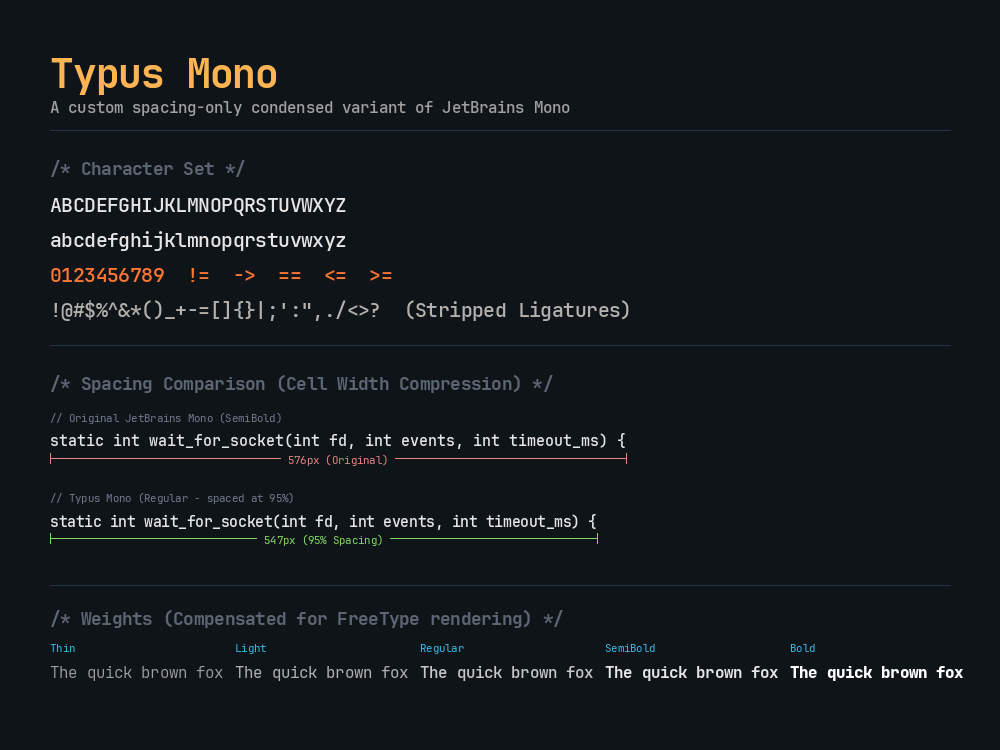
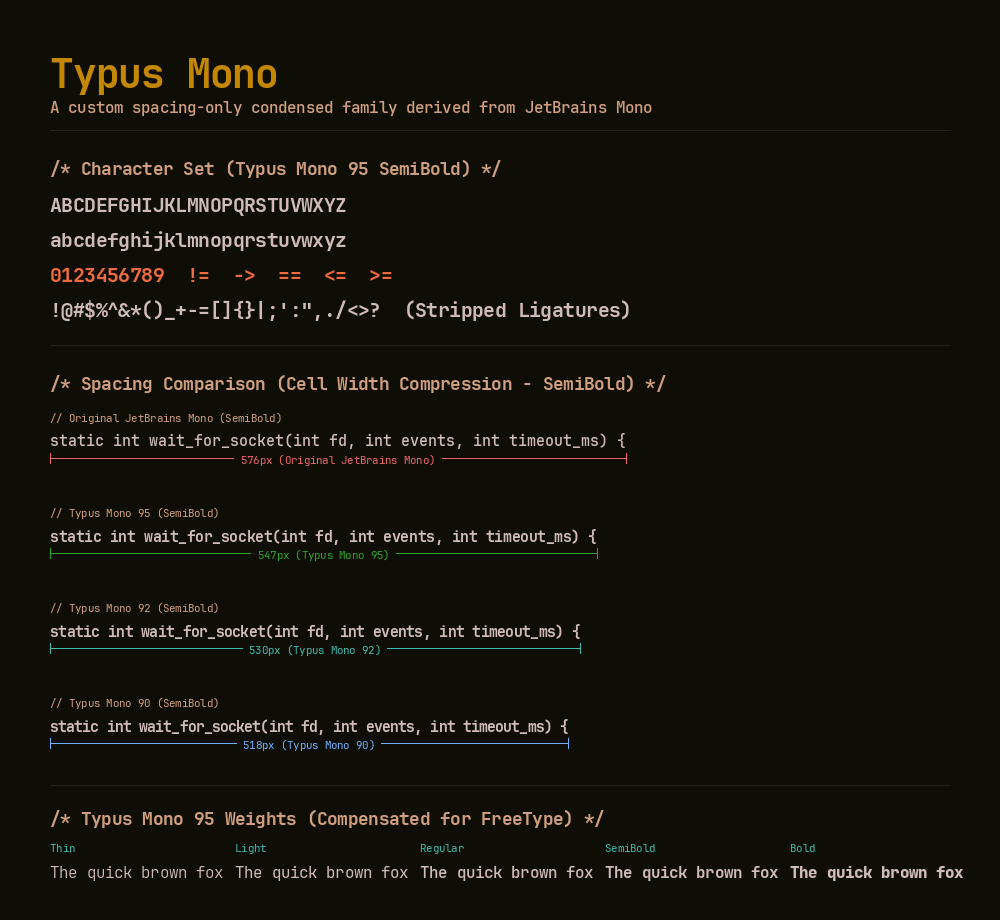
docs: include comparison for all scales and update specimen preview

diff --git a/generate_specimen.py b/generate_specimen.py
@@ -20,8 +20,8 @@ def draw_ruler(
             (x + width / 2 - text_w / 2 - 6, y - 8),
             (x + width / 2 + text_w / 2 + 6, y + 8),
         ],
-        fill="#0f1419",
-    )
+        fill="#0f0e06",
+    )  # ef-autumn background
     draw.text((x + width / 2 - text_w / 2, y - 6), label, fill=color_text, font=font)
 
 
@@ -30,122 +30,178 @@ def main():
     orig_path = "~/.local/share/fonts/JetBrainsMono/JetBrainsMonoNerdFont-SemiBold.ttf"
     output_path = os.path.join(repo_dir, "preview.png")
 
-    font_reg_path = os.path.join(repo_dir, "fonts/TypusMono-Regular.ttf")
-    font_sb_path = os.path.join(repo_dir, "fonts/TypusMono-SemiBold.ttf")
-    font_bold_path = os.path.join(repo_dir, "fonts/TypusMono-Bold.ttf")
-    font_light_path = os.path.join(repo_dir, "fonts/TypusMono-Light.ttf")
-    font_thin_path = os.path.join(repo_dir, "fonts/TypusMono-Thin.ttf")
+    font_thin_path = os.path.join(repo_dir, "fonts/TypusMono95-Thin.ttf")
+    font_light_path = os.path.join(repo_dir, "fonts/TypusMono95-Light.ttf")
+    font_reg_path = os.path.join(repo_dir, "fonts/TypusMono95-Regular.ttf")
+    font_sb_path = os.path.join(repo_dir, "fonts/TypusMono95-SemiBold.ttf")
+    font_bold_path = os.path.join(repo_dir, "fonts/TypusMono95-Bold.ttf")
+
+    font_sb_95_path = os.path.join(repo_dir, "fonts/TypusMono95-SemiBold.ttf")
+    font_sb_92_path = os.path.join(repo_dir, "fonts/TypusMono92-SemiBold.ttf")
+    font_sb_90_path = os.path.join(repo_dir, "fonts/TypusMono90-SemiBold.ttf")
 
     title_font = ImageFont.truetype(font_sb_path, 40)
     tagline_font = ImageFont.truetype(font_reg_path, 16)
     section_title_font = ImageFont.truetype(font_sb_path, 18)
-    char_font = ImageFont.truetype(font_reg_path, 20)
+    char_font = ImageFont.truetype(
+        font_sb_path, 20
+    )  # SemiBold for character set preview
+
     code_font_orig = ImageFont.truetype(orig_path, 15)
-    code_font_typus = ImageFont.truetype(font_reg_path, 15)
+    code_font_typus_95 = ImageFont.truetype(font_sb_95_path, 15)
+    code_font_typus_92 = ImageFont.truetype(font_sb_92_path, 15)
+    code_font_typus_90 = ImageFont.truetype(font_sb_90_path, 15)
+
     ruler_font = ImageFont.truetype(font_light_path, 11)
 
-    bg_color = "#0f1419"
-    img = Image.new("RGB", (1000, 750), color=bg_color)
+    bg_color = "#0f0e06"
+    fg_color = "#cfbcba"
+    keyword_color = "#c48702"
+    comment_color = "#cf9f7f"
+    string_color = "#f06a3f"
+    teal_color = "#3dbbb0"
+    blue_accent = "#6fafff"
+    red_accent = "#ef656a"
+    green_accent = "#2fa526"
+    border_color = "#26211d"
+
+    img = Image.new("RGB", (1000, 920), color=bg_color)
     draw = ImageDraw.Draw(img)
 
     # header
-    draw.text((50, 45), "Typus Mono", fill="#ffb454", font=title_font)
+    draw.text((50, 45), "Typus Mono", fill=keyword_color, font=title_font)
     draw.text(
         (50, 95),
-        "A custom spacing-only condensed variant of JetBrains Mono",
-        fill="#a0a0a0",
+        "A custom spacing-only condensed family derived from JetBrains Mono",
+        fill=comment_color,
         font=tagline_font,
     )
-    draw.line([(50, 130), (950, 130)], fill="#243347", width=1)
+    draw.line([(50, 130), (950, 130)], fill=border_color, width=1)
 
     # character set
-    draw.text((50, 155), "/* Character Set */", fill="#5c6773", font=section_title_font)
+    draw.text(
+        (50, 155),
+        "/* Character Set (Typus Mono 95 SemiBold) */",
+        fill=comment_color,
+        font=section_title_font,
+    )
     chars_line1 = "ABCDEFGHIJKLMNOPQRSTUVWXYZ"
     chars_line2 = "abcdefghijklmnopqrstuvwxyz"
     chars_line3 = "0123456789  !=  ->  ==  <=  >="
     chars_line4 = "!@#$%^&*()_+-=[]{}|;':\",./<>?  (Stripped Ligatures)"
 
-    draw.text((50, 190), chars_line1, fill="#e6e6e6", font=char_font)
-    draw.text((50, 225), chars_line2, fill="#e6e6e6", font=char_font)
-    draw.text((50, 260), chars_line3, fill="#ff7733", font=char_font)
-    draw.text((50, 295), chars_line4, fill="#b3b1ad", font=char_font)
+    draw.text((50, 190), chars_line1, fill=fg_color, font=char_font)
+    draw.text((50, 225), chars_line2, fill=fg_color, font=char_font)
+    draw.text((50, 260), chars_line3, fill=string_color, font=char_font)
+    draw.text((50, 295), chars_line4, fill=fg_color, font=char_font)
 
-    draw.line([(50, 345), (950, 345)], fill="#243347", width=1)
+    draw.line([(50, 345), (950, 345)], fill=border_color, width=1)
 
     # spacing comparision
     draw.text(
         (50, 370),
-        "/* Spacing Comparison (Cell Width Compression) */",
-        fill="#5c6773",
+        "/* Spacing Comparison (Cell Width Compression - SemiBold) */",
+        fill=comment_color,
         font=section_title_font,
     )
 
     code_line = "static int wait_for_socket(int fd, int events, int timeout_ms) {"
 
-    # Original JetBrains Mono
+    # JetBrains Mono
     draw.text(
         (50, 410),
         "// Original JetBrains Mono (SemiBold)",
-        fill="#707a8c",
+        fill=comment_color,
         font=ruler_font,
     )
-    draw.text((50, 430), code_line, fill="#e6e6e6", font=code_font_orig)
+    draw.text((50, 430), code_line, fill=fg_color, font=code_font_orig)
     orig_w = int(draw.textlength(code_line, font=code_font_orig))
     draw_ruler(
         draw,
         50,
         458,
         orig_w,
-        f"{orig_w}px (Original)",
-        color_line="#e28481",
-        color_text="#e28481",
+        f"{orig_w}px (Original JetBrains Mono)",
+        color_line=red_accent,
+        color_text=red_accent,
         font=ruler_font,
     )
 
-    # Typus Mono
+    # Typus Mono 95
     draw.text(
-        (50, 490),
-        "// Typus Mono (Regular - spaced at 95%)",
-        fill="#707a8c",
-        font=ruler_font,
+        (50, 505), "// Typus Mono 95 (SemiBold)", fill=comment_color, font=ruler_font
     )
-    draw.text((50, 510), code_line, fill="#e6e6e6", font=code_font_typus)
-    typus_w = int(draw.textlength(code_line, font=code_font_typus))
+    draw.text((50, 525), code_line, fill=fg_color, font=code_font_typus_95)
+    w_95 = int(draw.textlength(code_line, font=code_font_typus_95))
     draw_ruler(
         draw,
         50,
-        538,
-        typus_w,
-        f"{typus_w}px (95% Spacing)",
-        color_line="#7fd962",
-        color_text="#7fd962",
+        553,
+        w_95,
+        f"{w_95}px (Typus Mono 95)",
+        color_line=green_accent,
+        color_text=green_accent,
         font=ruler_font,
     )
 
-    draw.line([(50, 585), (950, 585)], fill="#243347", width=1)
+    # Typus Mono 92
+    draw.text(
+        (50, 600), "// Typus Mono 92 (SemiBold)", fill=comment_color, font=ruler_font
+    )
+    draw.text((50, 620), code_line, fill=fg_color, font=code_font_typus_92)
+    w_92 = int(draw.textlength(code_line, font=code_font_typus_92))
+    draw_ruler(
+        draw,
+        50,
+        648,
+        w_92,
+        f"{w_92}px (Typus Mono 92)",
+        color_line=teal_color,
+        color_text=teal_color,
+        font=ruler_font,
+    )
+
+    # Typus Mono 90
+    draw.text(
+        (50, 695), "// Typus Mono 90 (SemiBold)", fill=comment_color, font=ruler_font
+    )
+    draw.text((50, 715), code_line, fill=fg_color, font=code_font_typus_90)
+    w_90 = int(draw.textlength(code_line, font=code_font_typus_90))
+    draw_ruler(
+        draw,
+        50,
+        743,
+        w_90,
+        f"{w_90}px (Typus Mono 90)",
+        color_line=blue_accent,
+        color_text=blue_accent,
+        font=ruler_font,
+    )
+
+    draw.line([(50, 785), (950, 785)], fill=border_color, width=1)
 
     # weight showcase
     draw.text(
-        (50, 605),
-        "/* Weights (Compensated for FreeType rendering) */",
-        fill="#5c6773",
+        (50, 805),
+        "/* Typus Mono 95 Weights (Compensated for FreeType) */",
+        fill=comment_color,
         font=section_title_font,
     )
 
     weights_info = [
-        ("Thin", font_thin_path, "#a0a0a0"),
-        ("Light", font_light_path, "#b0b0b0"),
-        ("Regular", font_reg_path, "#c8c8c8"),
-        ("SemiBold", font_sb_path, "#e6e6e6"),
-        ("Bold", font_bold_path, "#ffffff"),
+        ("Thin", font_thin_path, fg_color),
+        ("Light", font_light_path, fg_color),
+        ("Regular", font_reg_path, fg_color),
+        ("SemiBold", font_sb_path, fg_color),
+        ("Bold", font_bold_path, fg_color),
     ]
 
     x_offset = 50
     for w_name, w_path, w_color in weights_info:
         w_font = ImageFont.truetype(w_path, 16)
-        draw.text((x_offset, 640), w_name, fill="#39bae6", font=ruler_font)
+        draw.text((x_offset, 840), w_name, fill=teal_color, font=ruler_font)
         sample_text = "The quick brown fox"
-        draw.text((x_offset, 660), sample_text, fill=w_color, font=w_font)
+        draw.text((x_offset, 860), sample_text, fill=w_color, font=w_font)
         x_offset += 185
 
     img.save(output_path)

diff --git a/README.md b/README.md
@@ -6,26 +6,22 @@ It serves as my personal daily driver. I maintain this repository as a central, 
 
 ![Typus Mono Specimen and Spacing Comparison](preview.png)
 
----
+## Motivation
 
-## The Motivation
+My journey with terminal aesthetics reached its peak with a highly tuned configuration in the Ghostty terminal emulator. By using cell compression (`adjust-cell-width = -1` and `adjust-cell-height = 1` at a size of `12pt`), I achieved a compact, high-information-density monospace grid that felt incredibly crisp to my eyes.
 
-My journey with terminal aesthetics reached its peak with a highly tuned configuration in the Ghostty terminal emulator. By utilizing cell compression (`adjust-cell-width = -1` and `adjust-cell-height = 1` at a size of `12pt`), I achieved a compact, high-information-density monospace grid that felt incredibly crisp to my eyes.
-
-However, when transitioning to GUI-native applications - specifically **GNU Emacs** - I faced a major obstacle. While terminal emulators can dynamically pack cells tighter by shifting rendering coordinates, Emacs GUI relies on the font's native metrics. It has no built-in mechanism for sub-pixel character width compression.
+However, when using **GNU Emacs** I faced a `major` obstacle. While terminal emulators can dynamically pack cells tighter by shifting rendering coordinates, Emacs GUI relies on the font's native metrics. It has no built-in mechanism for sub-pixel character width compression *yet (maybe someday?)*.
 
 To dissolve this mismatch and bring the exact, beloved Ghostty text layout into Emacs GUI, the modifications had to be baked directly into the font files. Thus, **Typus Mono** was born.
 
----
-
-## The Engineering Details
+## Engineering Details
 
 To achieve a pixel-perfect layout duplicate without ruining legibility, the customization relies on two key modifications:
 
-### 1. Spacing-Only Metrics Compression (95% Width)
-A naive approach would simply scale the font coordinates horizontally. However, horizontal scaling distorts the glyph vectors, turning round shapes into ugly ovals and breaking subpixel hints. 
+### 1. Spacing-Only Metrics Compression (90%, 92%, and 95% Widths)
+A naive approach would simply scale the font coordinates horizontally. However, horizontal scaling distorts the glyph vectors, turning round shapes into ugly ovals and breaking subpixel hints.
 
-Typus Mono preserves the glyph outlines **100% untouched**. Instead, it scales only the horizontal advance metrics (`hmtx` table) down to **95%**. The characters keep their original, beautifully designed proportions but are packed closer together—exactly mirroring Ghostty's cell width adjustment.
+Typus Mono preserves the glyph outlines **100% untouched**. Instead, it scales only the horizontal advance metrics (`hmtx` table) down to **90%**, **92%**, or **95%**. The characters keep their original, beautifully designed proportions but are packed closer together - exactly mirroring Ghostty's cell width adjustment.
 
 ### 2. Shifted Weight Mapping (Compensating for FreeType)
 When comparing GUI Emacs with Ghostty, my eyes immediately noticed a weight discrepancy. GPU-accelerated terminal renderers (such as Ghostty's custom shaders) naturally draw text with slightly more visual weight ("density"). Emacs GUI, using standard FreeType rasterization on Linux, renders the exact same font files noticeably thinner.
@@ -37,29 +33,25 @@ To correct this and restore visual parity, the font files were shifted up by wei
 - **Typus Mono `Light`** is built from original **`Regular`**.
 - **Typus Mono `Thin`** is built from original **`Light`**.
 
-This weight compensation, combined with the metrics scaling, yields a **1:1 pixel-perfect match** between Ghostty and Emacs GUI (measuring exactly **574 pixels for 64 characters** at size 12).
+This weight compensation, combined with the metrics scaling, yields a **1:1 pixel-perfect match** between Ghostty and Emacs GUI (measuring exactly **574 pixels for 64 characters** at size 12 with the 95 spacing variant).
 
 ### 3. Strict Ligature Stripping
-Contextual alternates (`calt`), standard ligatures (`liga`), discretionary ligatures (`dlig`), and contextual ligatures (`clig`) are disabled directly inside the OpenType `GSUB` table. This guarantees a clean, distraction-free environment without programming ligatures across all applications.
-
----
+Contextual alternates (`calt`), standard ligatures (`liga`), discretionary ligatures (`dlig`), and contextual ligatures (`clig`) are disabled directly inside the OpenType `GSUB` table. I don't really like them and this guarantees a clean, distraction-free environment without programming ligatures across all applications.
 
 ## Included Styles
 
-- `TypusMono-Thin.ttf` / `TypusMono-ThinItalic.ttf`
-- `TypusMono-Light.ttf` / `TypusMono-LightItalic.ttf`
-- `TypusMono-Regular.ttf` / `TypusMono-Italic.ttf`
-- `TypusMono-SemiBold.ttf` / `TypusMono-SemiBoldItalic.ttf`
-- `TypusMono-Bold.ttf` / `TypusMono-BoldItalic.ttf`
+Each scaling factor (90, 92, and 95) has its own independent family containing 10 styles:
 
----
+- **Typus Mono 90**: `TypusMono90-Thin.ttf`, `TypusMono90-ThinItalic.ttf`, `TypusMono90-Light.ttf`, `TypusMono90-LightItalic.ttf`, `TypusMono90-Regular.ttf`, `TypusMono90-Italic.ttf`, `TypusMono90-SemiBold.ttf`, `TypusMono90-SemiBoldItalic.ttf`, `TypusMono90-Bold.ttf`, `TypusMono90-BoldItalic.ttf`
+- **Typus Mono 92**: `TypusMono92-Thin.ttf`, `TypusMono92-ThinItalic.ttf`, `TypusMono92-Light.ttf`, `TypusMono92-LightItalic.ttf`, `TypusMono92-Regular.ttf`, `TypusMono92-Italic.ttf`, `TypusMono92-SemiBold.ttf`, `TypusMono92-SemiBoldItalic.ttf`, `TypusMono92-Bold.ttf`, `TypusMono92-BoldItalic.ttf`
+- **Typus Mono 95**: `TypusMono95-Thin.ttf`, `TypusMono95-ThinItalic.ttf`, `TypusMono95-Light.ttf`, `TypusMono95-LightItalic.ttf`, `TypusMono95-Regular.ttf`, `TypusMono95-Italic.ttf`, `TypusMono95-SemiBold.ttf`, `TypusMono95-SemiBoldItalic.ttf`, `TypusMono95-Bold.ttf`, `TypusMono95-BoldItalic.ttf`
 
 ## Building from Source
 
 The repository contains the exact tools used to build this font family. If you have Python and `fonttools` installed, you can re-run the build:
 
 ```bash
-# Searches standard paths for source JetBrainsMono Nerd Font files and builds the family
+# Searches standard paths for source JetBrainsMono Nerd Font files and builds all variants
 ./build.sh
 ```
 
@@ -67,8 +59,6 @@ You can pass a custom source directory path if needed:
 ```bash
 ./build.sh /path/to/source/jetbrains-mono-nerd-font/directory
 ```
-
----
 
 ## Installation
 
@@ -78,12 +68,10 @@ cp fonts/*.ttf ~/.local/share/fonts/TypusMono/
 fc-cache -fv
 ```
 
-To load it in Emacs GUI:
+To load one of the families (e.g., Typus Mono 95) in Emacs GUI:
 ```elisp
-(set-frame-font "Typus Mono-12:weight=normal" nil t)
+(set-frame-font "Typus Mono 95-12:weight=normal" nil t)
 ```
-
----
 
 ## License & Credits
 